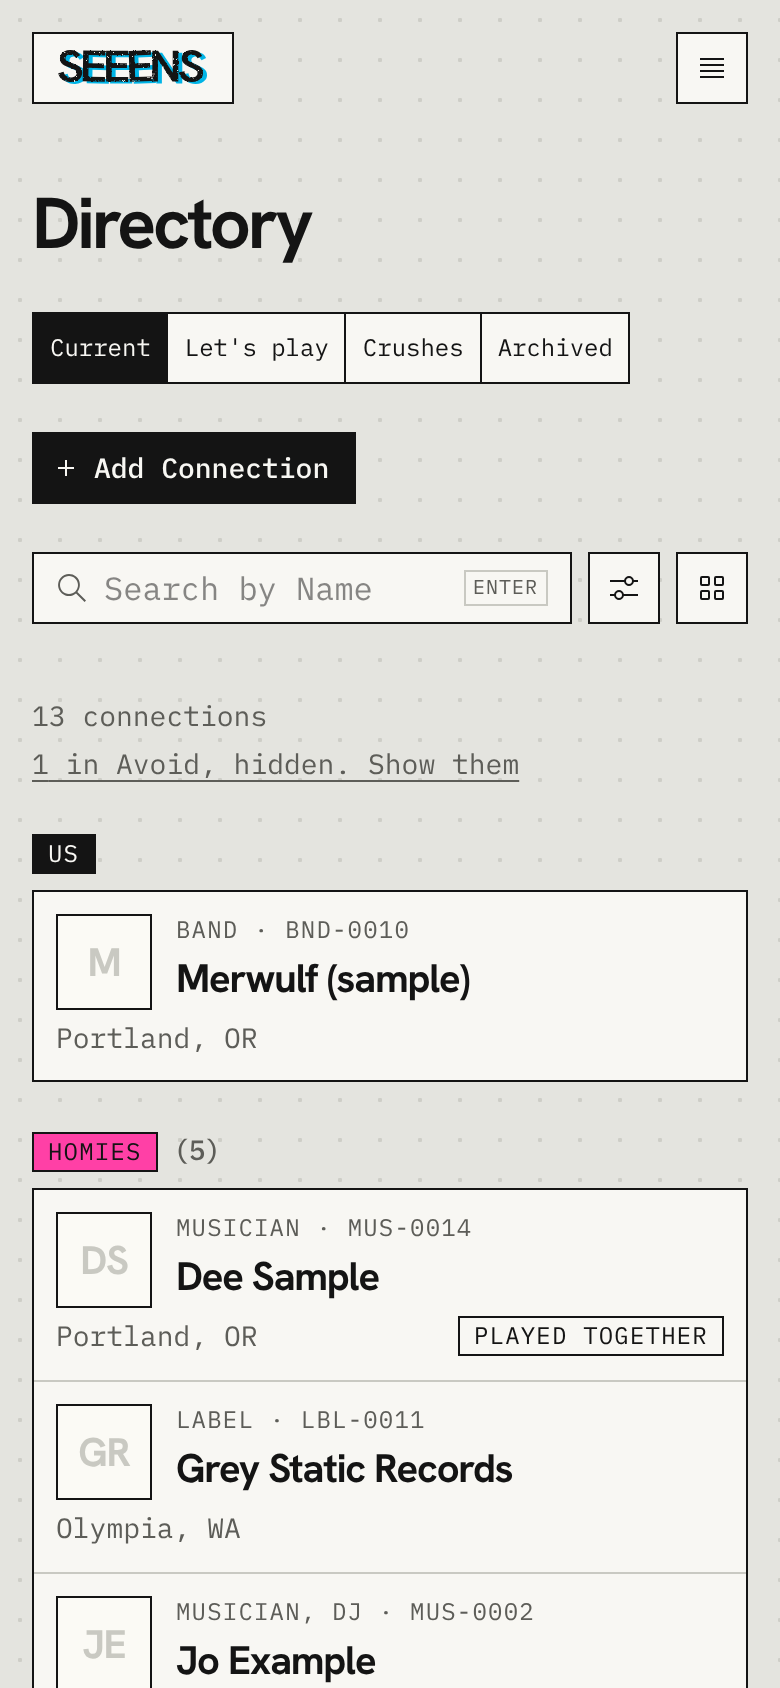
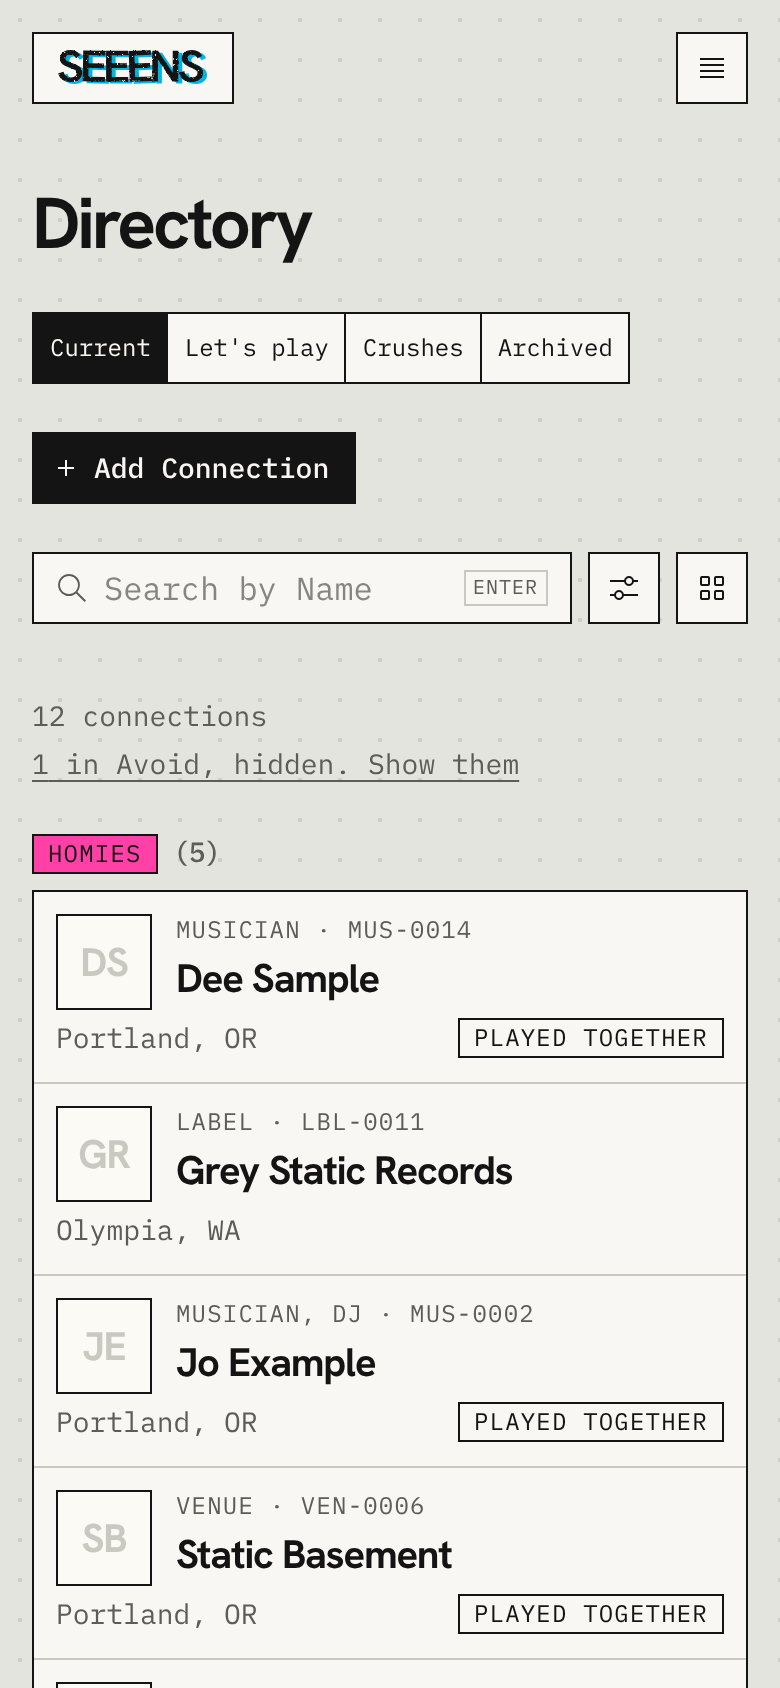
Take Us out of the directory; the band chip opens our page (#123) (#133)
directory_page leaves the connection marked This is us out of rows, groups,
counts and paging. It still drives the label mate and shared member tags, and
stays in pickers and the CSV export. The header's band chip links to our page,
or to Add connection prefilled as our band when there isn't one yet.

Claude-Session: https://claude.ai/code/session_01SMP6NnyPkRALtU7G1T7uNS

diff --git a/src/app/(app)/layout.tsx b/src/app/(app)/layout.tsx
@@ -1,6 +1,6 @@
 import Link from "next/link";
 import { Suspense, type ReactNode } from "react";
-import { getCurrentUser, getMembership } from "@/lib/auth/dal";
+import { getCurrentUser, getMembership, getUsConnectionId } from "@/lib/auth/dal";
 import { MainNav } from "@/components/main-nav";
 import { MobileMenu } from "@/components/mobile-menu";
 
@@ -68,6 +68,7 @@ async function Account({ layout = "row" }: { layout?: "row" | "menu" }) {
   // The header shouldn't take the page down if the workspace can't load;
   // the page's own error state explains what happened.
   const membership = await getMembership().catch(() => null);
+  const usId = membership ? await getUsConnectionId() : null;
   const name = membership?.displayName ?? user.email ?? "you";
   const menu = layout === "menu";
 
@@ -76,7 +77,18 @@ async function Account({ layout = "row" }: { layout?: "row" | "menu" }) {
     <div className={menu ? "flex flex-col items-end gap-4" : "flex items-center gap-3"}>
       <p className="flex flex-wrap items-center justify-end gap-3 text-sm">
         <span className="text-muted break-all">{name}</span>
-        {membership ? <span className="nav-chip nav-chip-inverse">{membership.workspaceName}</span> : null}
+        {/* The band chip opens our own page, or offers to add it (#123). */}
+        {membership ? (
+          <Link
+            href={usId ? `/connections/${usId}` : "/connections/new?us=1"}
+            className="nav-chip nav-chip-inverse"
+            aria-label={
+              usId ? `${membership.workspaceName}, your band's page` : `${membership.workspaceName}: add your band's page`
+            }
+          >
+            {membership.workspaceName}
+          </Link>
+        ) : null}
       </p>
       <form action="/auth/signout" method="post" className={menu ? "w-full" : undefined}>
         <button type="submit" className={menu ? "nav-chip w-full justify-end" : "nav-chip"}>

diff --git a/src/components/directory-results.tsx b/src/components/directory-results.tsx
@@ -82,30 +82,21 @@ export function DirectoryResults({
     });
   }
 
-  const sections = [
-    { id: "us", label: "Us", tag: "tag-ink", count: groups.us, rows: items.filter((c) => c.is_us), counted: false },
-    ...STATUSES.map((status) => ({
-      id: status,
-      label: STATUS_LABELS[status],
-      tag: `tag-${status}`,
-      count: groups[status],
-      rows: items.filter((c) => !c.is_us && c.status === status),
-      counted: true,
-    })),
-  ].filter((s) => s.rows.length);
+  // Our own band isn't in the directory; the header's band chip opens it (#123).
+  const sections = STATUSES.map((status) => ({
+    id: status,
+    label: STATUS_LABELS[status],
+    tag: `tag-${status}`,
+    count: groups[status],
+    rows: items.filter((c) => c.status === status),
+  })).filter((s) => s.rows.length);
 
   return (
     <>
       {sections.map((s) => (
         <section key={s.id} aria-labelledby={`group-${s.id}`} className="flex flex-col gap-2">
           <h2 id={`group-${s.id}`} className="label">
-            <span className={`tag ${s.tag}`}>{s.label}</span>
-            {s.counted ? (
-              <>
-                {" "}
-                <span className="text-muted">({s.count})</span>
-              </>
-            ) : null}
+            <span className={`tag ${s.tag}`}>{s.label}</span> <span className="text-muted">({s.count})</span>
           </h2>
           {layout === "list" ? (
             <ConnectionRows connections={s.rows} today={today} />

diff --git a/src/app/(app)/connections/new/page.tsx b/src/app/(app)/connections/new/page.tsx
@@ -9,26 +9,29 @@ import { listSceneOptions } from "@/lib/scenes/queries";
 
 export const metadata: Metadata = { title: "Add connection · Seeens" };
 
-export default function NewConnectionPage() {
+export default function NewConnectionPage({ searchParams }: PageProps<"/connections/new">) {
   return (
     <div className="page-measure flex flex-col gap-6">
       <h1 className="display-l sm:display-xl">Add connection</h1>
       <Suspense fallback={<p className="text-muted">Loading…</p>}>
-        <NewConnection />
+        <NewConnection searchParams={searchParams} />
       </Suspense>
     </div>
   );
 }
 
-async function NewConnection() {
-  const membership = await getMembership();
+async function NewConnection({ searchParams }: { searchParams: PageProps<"/connections/new">["searchParams"] }) {
+  const [membership, params] = await Promise.all([getMembership(), searchParams]);
   if (!membership) return <NoWorkspace />;
   const scenes = await listSceneOptions();
+  // From the header's band chip when there's no Us yet: start our own band.
+  const initial =
+    params.us === "1" ? { ...EMPTY_FORM, name: membership.workspaceName, groupType: "band", isUs: true } : EMPTY_FORM;
 
   return (
     <ConnectionForm
       action={createConnection}
-      initial={EMPTY_FORM}
+      initial={initial}
       scenes={scenes}
       submitLabel="Add Connection"
       cancelHref="/"

diff --git a/src/lib/auth/dal.ts b/src/lib/auth/dal.ts
@@ -67,3 +67,20 @@ export async function requireWorkspaceId(): Promise<string> {
   if (!membership) throw new Error("Not in a workspace.");
   return membership.workspaceId;
 }
+
+// The connection marked "This is us" in the current workspace, if there is
+// one. The header's band chip opens it (#123). Archived still counts.
+export const getUsConnectionId = cache(async (): Promise<string | null> => {
+  const membership = await getMembership();
+  if (!membership) return null;
+  const supabase = await createClient();
+  const { data, error } = await supabase
+    .from("connections")
+    .select("id")
+    .eq("workspace_id", membership.workspaceId)
+    .eq("is_us", true)
+    .limit(1)
+    .maybeSingle();
+  if (error) return null;
+  return data?.id ?? null;
+});

diff --git a/src/lib/connections/directory.ts b/src/lib/connections/directory.ts
@@ -69,7 +69,7 @@ export type DirectoryItem = {
   scenes: string[];
 };
 
-export type GroupCounts = Record<"us" | ConnectionStatus, number>;
+export type GroupCounts = Record<ConnectionStatus, number>;
 
 export type DirectoryCounts = {
   /** Everyone in this half (current or archived), any status. */

diff --git a/README.md b/README.md
@@ -76,12 +76,11 @@ Automated scraping, automatic messaging, social integrations, and multi-band cus
 
 Priorities live on the issues (`priority: now`, `next`, `later`); this is the order.
 
-1. **Now:** take Us out of the directory, the band chip opens our page ([#123](https://github.com/rainbows4dinos/seeens/issues/123)).
-2. **Next, the directory for daily use:** browse by type, Bands, People, Venues, Labels & more ([#122](https://github.com/rainbows4dinos/seeens/issues/122)) with type-specific fields ([#48](https://github.com/rainbows4dinos/seeens/issues/48)); played together, town, and scenes carry over between bands and members ([#124](https://github.com/rainbows4dinos/seeens/issues/124)); zone the connection and edit pages (Figma, [#126](https://github.com/rainbows4dinos/seeens/issues/126)).
-3. **Then, scene intelligence:** town, scene, and genre ([#125](https://github.com/rainbows4dinos/seeens/issues/125), with [#21](https://github.com/rainbows4dinos/seeens/issues/21)): town as the host scene, sub-scenes as communities, genre as self-description, and suggested meta-scenes across towns for touring and labels.
-4. **Growth, so suggestions can see past one band:** accounts and you versus the band ([#67](https://github.com/rainbows4dinos/seeens/issues/67), [#44](https://github.com/rainbows4dinos/seeens/issues/44)), invites ([#68](https://github.com/rainbows4dinos/seeens/issues/68)), and claimed listings ([#45](https://github.com/rainbows4dinos/seeens/issues/45), [#70](https://github.com/rainbows4dinos/seeens/issues/70)).
-5. **Ongoing polish:** phase 2 design ([#58](https://github.com/rainbows4dinos/seeens/issues/58)); Boards ([#49](https://github.com/rainbows4dinos/seeens/issues/49)) once scenes settle.
-6. **Later:** aliases and solo projects ([#29](https://github.com/rainbows4dinos/seeens/issues/29)), band-set focus ([#23](https://github.com/rainbows4dinos/seeens/issues/23)), show check-ins ([#26](https://github.com/rainbows4dinos/seeens/issues/26)), and public pages and feedback ([#71](https://github.com/rainbows4dinos/seeens/issues/71)–[#73](https://github.com/rainbows4dinos/seeens/issues/73)).
+1. **Now, the directory for daily use:** browse by type, Bands, People, Venues, Labels & more ([#122](https://github.com/rainbows4dinos/seeens/issues/122)) with type-specific fields ([#48](https://github.com/rainbows4dinos/seeens/issues/48)); played together, town, and scenes carry over between bands and members ([#124](https://github.com/rainbows4dinos/seeens/issues/124)); zone the connection and edit pages (Figma, [#126](https://github.com/rainbows4dinos/seeens/issues/126)).
+2. **Then, scene intelligence:** town, scene, and genre ([#125](https://github.com/rainbows4dinos/seeens/issues/125), with [#21](https://github.com/rainbows4dinos/seeens/issues/21)): town as the host scene, sub-scenes as communities, genre as self-description, and suggested meta-scenes across towns for touring and labels.
+3. **Growth, so suggestions can see past one band:** accounts and you versus the band ([#67](https://github.com/rainbows4dinos/seeens/issues/67), [#44](https://github.com/rainbows4dinos/seeens/issues/44)), invites ([#68](https://github.com/rainbows4dinos/seeens/issues/68)), and claimed listings ([#45](https://github.com/rainbows4dinos/seeens/issues/45), [#70](https://github.com/rainbows4dinos/seeens/issues/70)).
+4. **Ongoing polish:** phase 2 design ([#58](https://github.com/rainbows4dinos/seeens/issues/58)); Boards ([#49](https://github.com/rainbows4dinos/seeens/issues/49)) once scenes settle.
+5. **Later:** aliases and solo projects ([#29](https://github.com/rainbows4dinos/seeens/issues/29)), band-set focus ([#23](https://github.com/rainbows4dinos/seeens/issues/23)), show check-ins ([#26](https://github.com/rainbows4dinos/seeens/issues/26)), and public pages and feedback ([#71](https://github.com/rainbows4dinos/seeens/issues/71)–[#73](https://github.com/rainbows4dinos/seeens/issues/73)).
 
 ## Development status
 

diff --git a/docs/context.md b/docs/context.md
@@ -16,7 +16,7 @@ The core questions are: Who do we know in this scene? Who are our Homies, and wh
 - **Locality:** a verified town from the shared GeoNames place list (towns with 1,000+ people, with coordinates). Each workspace has at most one locality per town. Keep locality distinct from genre/community tags. Scenes and macro-scenes (for example Pacific Northwest) are Seeens' own records that group localities; GeoNames supplies the places, not the scenes.
 - **Scene:** a local music community. A connection can belong to multiple scenes.
 - **Affiliation:** a link between two connections in the same workspace, with a kind, an optional role or detail (for example "vocals, guitar"), a current/former status, and optional notes. Kinds: **member** (person plays in a band), **works with** (person books for, runs, or works at a venue, label, studio, and so on), **on label** (band is on a label), **related** (side project, split release, sister venue), and **other**. A band's members are its incoming member links.
-- **Us:** one group per workspace can be marked as the band itself ("This is our band"). Seeens uses it to show label mates (bands on a label with us) and bands that share a member with us.
+- **Us:** one group per workspace can be marked as the band itself ("This is our band"). Seeens uses it to show label mates (bands on a label with us) and bands that share a member with us. Us isn't listed in the directory; the band chip in the header opens its page (or offers to add it).
 - **Can help with:** free-form skills or services on a person (for example music videos, DJ sets, gear, screen printing), so members can find who to ask for a need, not only who plays where.
 - **Status:** one band-wide choice per connection, set in a single tap:
   - **Homies:** the ultimate band-to-band relationship. Love playing together, love each other's music, love hanging out, support each other, top tour-mate candidates.
